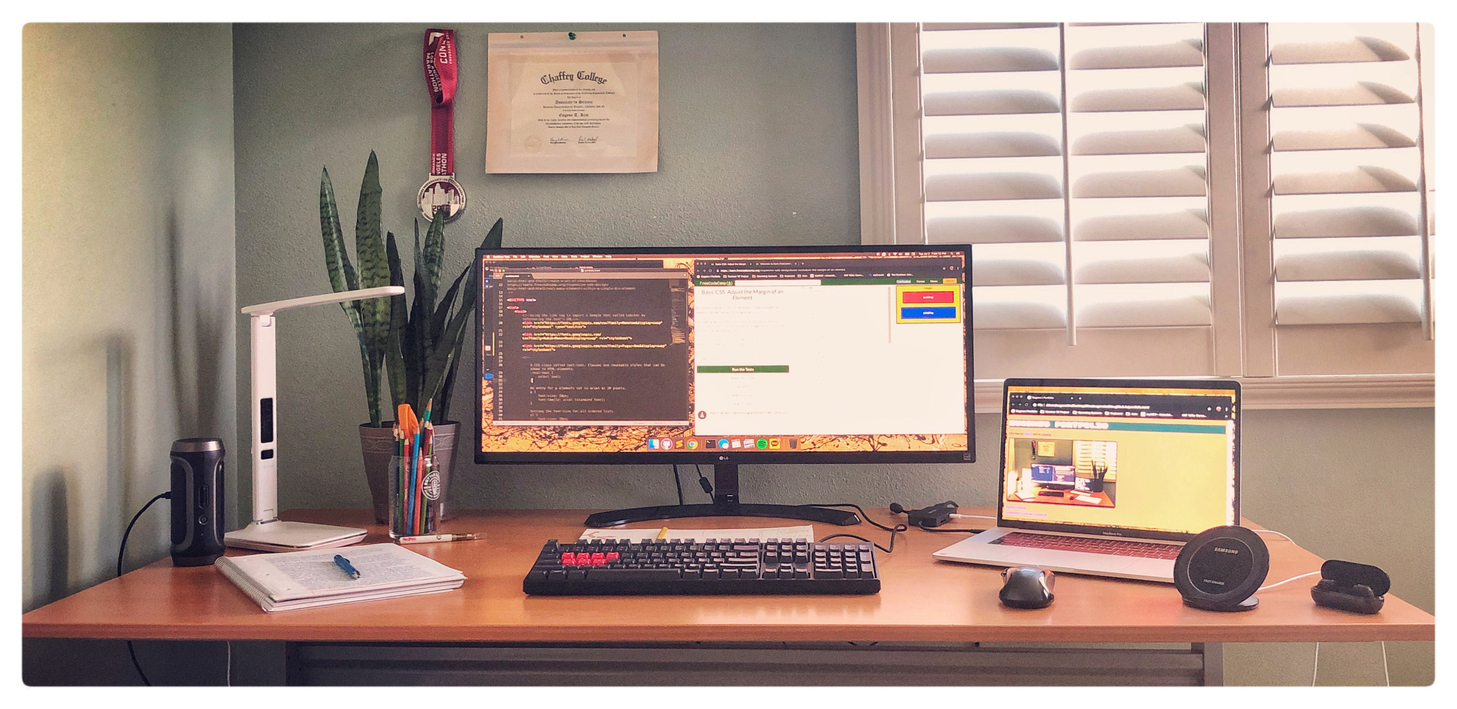
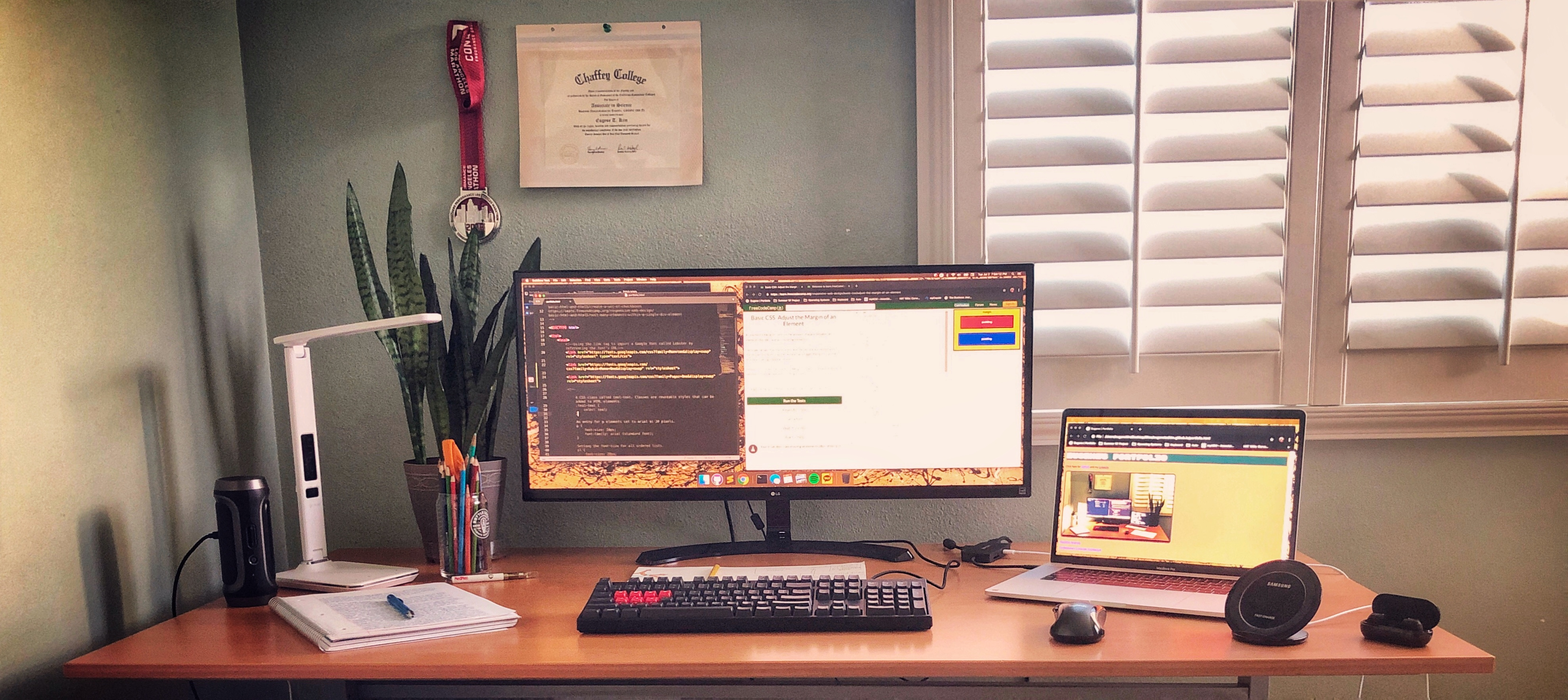
update
changed background color, added a penguin, replaced station picture

diff --git a/portfolio.html b/portfolio.html
@@ -7,8 +7,8 @@
 		</title>
 		<style>
 			body {
-				background-color: black;
-				color: SlateGrey;
+				background-color: #c6faf1;
+				color: #FFFFFF;
 			}
 
 			h1 {
@@ -38,18 +38,190 @@
 				border-radius:10px;
 			}
 
-			.WhiteSmoke-background {
-				background-color: WhiteSmoke;
-			}
-
 			span + span {
 				margin-left: 5px;
 			}
+
+			  .penguin {
+    
+    /* change code below */
+    --penguin-skin: gray;
+    --penguin-belly: white;
+    --penguin-beak: orange;
+    /* change code above */
+    
+    position: relative;
+    margin: auto;
+    display: block;
+    margin-top: 5%;
+    width: 300px;
+    height: 300px;
+  }
+  
+  .penguin-top {
+    top: 10%;
+    left: 25%;
+    background: var(--penguin-skin, gray);
+    width: 50%;
+    height: 45%;
+    border-radius: 70% 70% 60% 60%;
+  }
+  
+  .penguin-bottom {
+    top: 40%;
+    left: 23.5%;
+    background: var(--penguin-skin, gray);
+    width: 53%;
+    height: 45%;
+    border-radius: 70% 70% 100% 100%;
+  }
+  
+  .right-hand {
+    top: 0%;
+    left: -5%;
+    background: var(--penguin-skin, gray);
+    width: 30%;
+    height: 60%;
+    border-radius: 30% 30% 120% 30%;
+    transform: rotate(45deg);
+    z-index: -1;
+  }
+  
+  .left-hand {
+    top: 0%;
+    left: 75%;
+    background: var(--penguin-skin, gray);
+    width: 30%;
+    height: 60%;
+    border-radius: 30% 30% 30% 120%;
+    transform: rotate(-45deg);
+    z-index: -1;
+  }
+  
+  .right-cheek {
+    top: 15%;
+    left: 35%;
+    background: var(--penguin-belly, white);
+    width: 60%;
+    height: 70%;
+    border-radius: 70% 70% 60% 60%;
+  }
+  
+  .left-cheek {
+    top: 15%;
+    left: 5%;
+    background: var(--penguin-belly, white);
+    width: 60%;
+    height: 70%;
+    border-radius: 70% 70% 60% 60%;
+  }
+  
+  .belly {
+    top: 60%;
+    left: 2.5%;
+    background: var(--penguin-belly, white);
+    width: 95%;
+    height: 100%;
+    border-radius: 120% 120% 100% 100%;
+  }
+  
+  .right-feet {
+    top: 85%;
+    left: 60%;
+    background: var(--penguin-beak, orange);
+    width: 15%;
+    height: 30%;
+    border-radius: 50% 50% 50% 50%;
+    transform: rotate(-80deg);
+    z-index: -2222;  
+  }
+  
+  .left-feet {
+    top: 85%;
+    left: 25%;
+    background: var(--penguin-beak, orange);
+    width: 15%;
+    height: 30%;
+    border-radius: 50% 50% 50% 50%;
+    transform: rotate(80deg);
+    z-index: -2222;  
+  }
+  
+  .right-eye {
+    top: 45%;
+    left: 60%;
+    background: black;
+    width: 15%;
+    height: 17%;
+    border-radius: 50%; 
+  }
+  
+  .left-eye {
+    top: 45%;
+    left: 25%;
+    background: black;
+    width: 15%;
+    height: 17%;
+    border-radius: 50%;  
+  }
+  
+  .sparkle {
+    top: 25%;
+    left: 15%;
+    background: white;
+    width: 35%;
+    height: 35%;
+    border-radius: 50%;  
+  }
+  
+  .blush-right {
+    top: 65%;
+    left: 15%;
+    background: pink;
+    width: 15%;
+    height: 10%;
+    border-radius: 50%;  
+  }
+  
+  .blush-left {
+    top: 65%;
+    left: 70%;
+    background: pink;
+    width: 15%;
+    height: 10%;
+    border-radius: 50%;  
+  }
+  
+  .beak-top {
+    top: 60%;
+    left: 40%;
+    background: var(--penguin-beak, orange);
+    width: 20%;
+    height: 10%;
+    border-radius: 50%;  
+  }
+  
+  .beak-bottom {
+    top: 65%;
+    left: 42%;
+    background: var(--penguin-beak, orange);
+    width: 16%;
+    height: 10%;
+    border-radius: 50%;  
+  }
+  
+  body {
+    background:#c6faf1;
+  }
+  
+  .penguin * {
+    position: absolute;
+  }
 		</style>
 		<link href="https://fonts.googleapis.com/css?family=Work+Sans&display=swap" rel="stylesheet">
 	</head>
 	<body>
-		<div class="WhiteSmoke-background">
+		<div>
 			<h1>Portfolio</h1>
 
 			<p>
@@ -111,5 +283,28 @@
 				<img class="resize-station-image border" src="https://eugenetedkim.github.io/station.jpg" alt="My work station">
 			</a>
 		</div>
+		<div class="penguin">
+  <div class="penguin-bottom">
+    <div class="right-hand"></div>
+    <div class="left-hand"></div>
+    <div class="right-feet"></div>
+    <div class="left-feet"></div>
+  </div>
+  <div class="penguin-top">
+    <div class="right-cheek"></div>
+    <div class="left-cheek"></div>
+    <div class="belly"></div>
+    <div class="right-eye">
+      <div class="sparkle"></div>
+    </div>
+    <div class="left-eye">
+      <div class="sparkle"></div>
+    </div>
+    <div class="blush-right"></div>
+    <div class="blush-left"></div>
+    <div class="beak-top"></div>
+    <div class="beak-bottom"></div>
+  </div>
+</div>
 	</body>
 </html>
